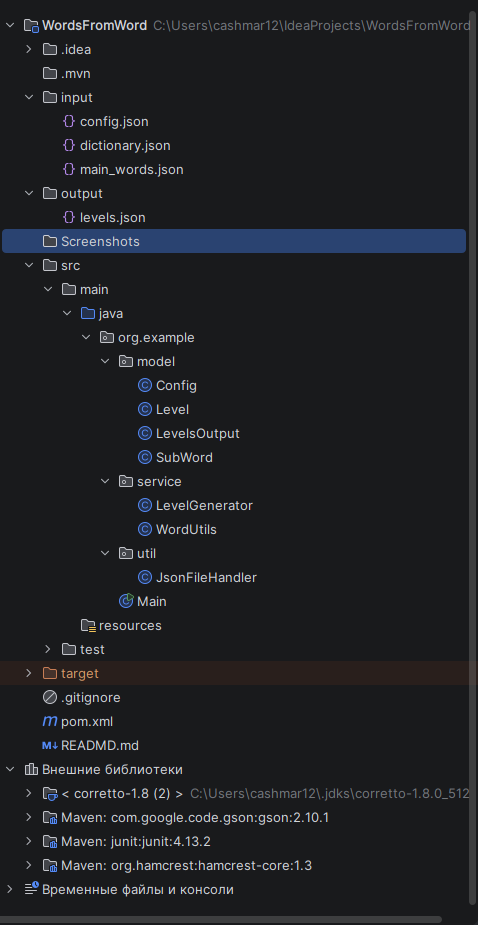
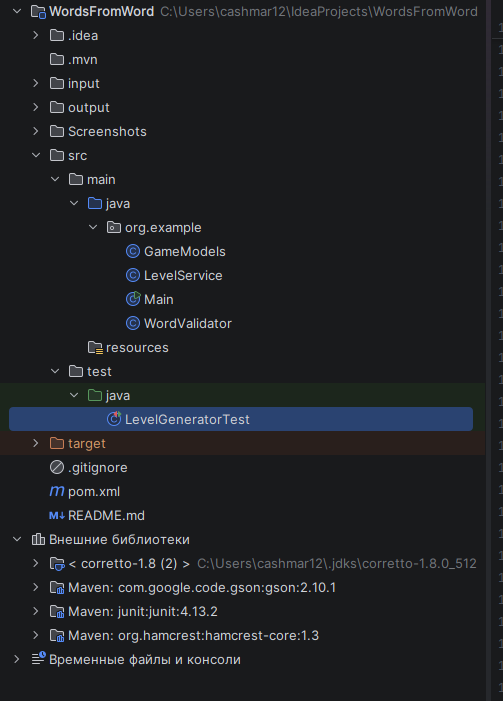
updated the test and architecture screenshots

Changed region(s): [[0.0, 0.0, 1.0, 1.0]]

diff --git a/README.md b/README.md
@@ -28,7 +28,7 @@ To build and run this project, you need the following tools and libraries:
 
 ## Project Structure
 The screenshot below illustrates the complete project architecture in IntelliJ IDEA, including Maven dependencies (`Gson 2.10.1`, `JUnit 4.13.2`), input/output JSON directories, and separated `model`, `service`, and `util` packages:
-![Console Output](Screenshots/Project.png)
+![Console Output](Screenshots/project.png)
 <!-- Дерево папок и описание назначения каждого пакета/файла -->
 
 ## Installation & How to Run
